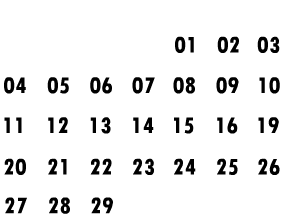
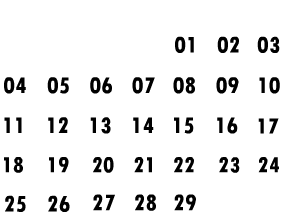
added employee info and fixed calendar

diff --git a/TheOffice/model/Interface/CalendarElement.py b/TheOffice/model/Interface/CalendarElement.py
@@ -1,5 +1,4 @@
 import datetime
-import math
 from os import listdir
 
 import pygame.image
@@ -16,44 +15,98 @@ class CalendarElement(InterfaceElement):
                             for page in listdir("../resources/interface/elements/calendar/pages")]
         self.page_rect = Rect(270, 160, self.page_images[0].get_width(), self.page_images[0].get_height())
         self.current_page = 0
-        self.calendar_matrix = self.init_calendar_matrix(2024)
         self.current_date = datetime.date(2024, 1, 1)
-        offset = datetime.date(2024, self.current_date.month, 1).weekday()
-        self.page_marker_pos = [1, 0]
-        self.page_marker_rect_fixed_pos = (278, 176)
-        self.page_marker_rect = Rect(278 + self.page_marker_pos[0] * 32, 176 + self.page_marker_pos[1] * 35, 34, 36)
-
-    def init_calendar_matrix(self, year):
-        calendar_matrix = [[]]
-        date = datetime.date(year, 1, 1)
-        DAYS_PER_PAGE = 35
-        # first page starts with 31 of december from last year
-        calendar_matrix[0].append(31)
-        # set a matrix where row is month and column is a day of month
-        for days in range(0, 365):
-            day = (date + datetime.timedelta(days)).day
-            page = math.floor(days / DAYS_PER_PAGE)
-            if days % DAYS_PER_PAGE == 0:
-                calendar_matrix.append([])
-            calendar_matrix[page].append(day)
-        return calendar_matrix
+        self.init_texts()
+        self.page_marker_pos = [1, 0, 0]
+        self.page_marker_rect_fixed_pos = (272, 176)
+        self.marker_width = 37
+        self.marker_height = 36
+        self.page_marker_rect = Rect(280 + self.page_marker_pos[0] * 31, 176 + self.page_marker_pos[1] * 35, self.marker_width,
+                                     self.marker_height)
 
     def update(self):
         self.current_date += datetime.timedelta(1)
         # if next month starts
         if self.current_date.day == 1:
-            offset = datetime.date(2024, self.current_date.month, 1).weekday()
-            self.page_marker_pos = [0 + offset, 0]
+            self.page_marker_pos = [self.get_marker_offset(), 0, self.page_marker_pos[2] + 1]
         # if next week starts
-        elif self.page_marker_pos[0] == 7:
-            self.page_marker_pos = [0, self.page_marker_pos[1] + 1]
+        elif self.page_marker_pos[0] == 6:
+            self.page_marker_pos = [0, self.page_marker_pos[1] + 1, self.page_marker_pos[2]]
         else:
             self.page_marker_pos[0] += 1
-        self.page_marker_rect.x = self.page_marker_rect_fixed_pos[0] + self.page_marker_pos[0] * 34
-        self.page_marker_rect.y = self.page_marker_rect_fixed_pos[1] + self.page_marker_pos[1] * 35
+        self.page_marker_rect.x = self.page_marker_rect_fixed_pos[0] + self.page_marker_pos[0] * self.marker_width
+        self.page_marker_rect.y = self.page_marker_rect_fixed_pos[1] + self.page_marker_pos[1] * self.marker_height
 
     def move(self, x, y):
         self.rect = self.rect.move(x, y)
         self.page_rect = self.page_rect.move(x, y)
         self.page_marker_rect = self.page_marker_rect.move(x, y)
         self.page_marker_rect_fixed_pos = (self.page_marker_rect_fixed_pos[0] + x, self.page_marker_rect_fixed_pos[1] + y)
+
+    def get_marker_offset(self):
+        if self.current_page == 0:
+            return 4
+        elif self.current_page == 1:
+            return 5
+        elif self.current_page == 2:
+            return 0
+        elif self.current_page == 3:
+            return 3
+        elif self.current_page == 4:
+            return 6
+        elif self.current_page == 5:
+            return 0
+        elif self.current_page == 6:
+            return 4
+        elif self.current_page == 7:
+            return 0
+        elif self.current_page == 8:
+            return 2
+        elif self.current_page == 9:
+            return 5
+        elif self.current_page == 10:
+            return 0
+        elif self.current_page == 11:
+            return 1
+
+    def init_texts(self):
+        font = pygame.font.SysFont("Calibri", 30, True)
+        self.month_text_rect = pygame.Rect(260, 140, 100, 24)
+        self.text_january = font.render("January", True, 0)
+        self.text_february = font.render("February", True, 0)
+        self.text_march = font.render("March", True, 0)
+        self.text_april = font.render("April", True, 0)
+        self.text_may = font.render("May", True, 0)
+        self.text_june = font.render("June", True, 0)
+        self.text_july = font.render("July", True, 0)
+        self.text_august = font.render("August", True, 0)
+        self.text_september = font.render("September", True, 0)
+        self.text_october = font.render("October", True, 0)
+        self.text_november = font.render("November", True, 0)
+        self.text_december = font.render("December", True, 0 )
+
+    def get_month_text(self):
+        if self.current_page == 0:
+            return self.text_january
+        elif self.current_page == 1:
+            return self.text_february
+        elif self.current_page == 2:
+            return self.text_march
+        elif self.current_page == 3:
+            return self.text_april
+        elif self.current_page == 4:
+            return self.text_may
+        elif self.current_page == 5:
+            return self.text_june
+        elif self.current_page == 6:
+            return self.text_july
+        elif self.current_page == 7:
+            return self.text_august
+        elif self.current_page == 8:
+            return self.text_september
+        elif self.current_page == 9:
+            return self.text_october
+        elif self.current_page == 10:
+            return self.text_november
+        else:
+            return self.text_december

diff --git a/TheOffice/view/Main.py b/TheOffice/view/Main.py
@@ -47,9 +47,6 @@ class Game:
             "Paper sold: " + str(self.company.papers_sold), True,
             (255, 255, 255))
         self.money = self.font.render("Money: " + str(self.company.money), True, (255, 255, 255))
-        self.hunger = self.font.render(
-            "Hunger: " + str(self.employee_controller.employee_service.employee_list[0]._needs.hunger), True,
-            (255, 255, 255))
         self.stress = self.font.render(
             "Stress: " + str(self.employee_controller.employee_service.employee_list[0]._needs.stress), True,
             (255, 255, 255))
@@ -58,6 +55,16 @@ class Game:
             "Motivation: " + str(self.employee_controller.employee_service.employee_list[0]._needs.motivation), True,
             (255, 255, 255))
         self.clock_time = self.font.render("Time: " + self.interface_service.get_clock_progress_str(), True, (255, 255, 255))
+        if self.interface_service.view_type == self.interface_service.HIRE_EMPLOYEE:
+            emp = self.interface_service.hire_element.emp_list[self.interface_service.hire_element.emp_index]
+            abilities = emp.get("abilities")
+            name = emp.get("name")
+            self.emp_name = self.font.render("Name: " + name, True, (255, 255, 255))
+            self.stomach = self.font.render("Hunger: " + str(abilities[0]), True, (255, 255, 255))
+            self.boredom = self.font.render("Boredom: " + str(abilities[1]), True, (255, 255, 255))
+            self.anxiety = self.font.render("Anxiety: " + str(abilities[2]), True, (255, 255, 255))
+            self.salary = self.font.render("Salary: ", True, (255, 255, 255))
+            self.experience = self.font.render("Experience: ", True, (255, 255, 255))  # could be shown by levels: low, medium, high
 
     def draw(self):
         for floor in range(0, len(self.building_controller.get_room_board())):
@@ -82,13 +89,20 @@ class Game:
         # draw different views based on which icon user clicked
         if self.interface_service.view_type == self.interface_service.HIRE_EMPLOYEE:
             self.screen.blit(self.interface_service.hire_element.get_emp_image(), self.interface_service.hire_element.rect)
+            self.screen.blit(self.emp_name, self.interface_service.hire_element.rect.move(70, 0))
+            self.screen.blit(self.stomach, self.interface_service.hire_element.rect.move(70, 30))
+            self.screen.blit(self.anxiety, self.interface_service.hire_element.rect.move(70, 60))
+            self.screen.blit(self.boredom, self.interface_service.hire_element.rect.move(70, 90))
         elif self.interface_service.view_type == self.interface_service.PURCHASE_ROOM:
             self.screen.blit(self.interface_service.building_element.get_room_image(), self.interface_service.building_element.rect)
         elif self.interface_service.view_type == self.interface_service.CALENDAR:
             self.screen.blit(self.interface_service.calendar_element.image, self.interface_service.calendar_element.rect)
             self.screen.blit(self.interface_service.calendar_element.page_images[self.interface_service.calendar_element.current_page],
                              self.interface_service.calendar_element.page_rect)
-            pygame.draw.rect(self.screen, (255, 0, 0), self.interface_service.calendar_element.page_marker_rect, 3)
+            self.screen.blit(self.interface_service.calendar_element.get_month_text(),
+                             self.interface_service.calendar_element.month_text_rect)
+            if self.interface_service.calendar_element.current_page == self.interface_service.calendar_element.page_marker_pos[2]:
+                pygame.draw.rect(self.screen, (255, 0, 0), self.interface_service.calendar_element.page_marker_rect, 3)
 
         pygame.draw.line(self.screen, (0, 0, 0), (397, 55), self.interface_service.clock_element.clk_pointer, 5)
         # self.screen.blit(self.hunger, self.text_rect.move(0, 125))

diff --git a/TheOffice/model/Interface/HireElement.py b/TheOffice/model/Interface/HireElement.py
@@ -7,10 +7,10 @@ class HireElement(InterfaceElement):
     def __init__(self, rect, img):
         super().__init__(rect, img)
         self.emp_list = [
-            {"name": "Bob", "abilities": (6, 4, 5), "images_path": "../resources/employees/male/emp1/"},
-            {"name": "Bob", "abilities": (6, 4, 5), "images_path": "../resources/employees/male/emp2/"},
-            {"name": "Bob", "abilities": (6, 4, 5), "images_path": "../resources/employees/male/emp3/"},
-            {"name": "Bob", "abilities": (6, 4, 5), "images_path": "../resources/employees/female/emp1/"},
+            {"name": "Bob", "abilities": (6, 6, 6), "images_path": "../resources/employees/male/emp1/"},
+            {"name": "Steve", "abilities": (6, 4, 7), "images_path": "../resources/employees/male/emp2/"},
+            {"name": "Joe", "abilities": (4, 6, 8), "images_path": "../resources/employees/male/emp3/"},
+            {"name": "Marle", "abilities": (8, 7, 4), "images_path": "../resources/employees/female/emp1/"},
         ]
         self.emp_index = 0
 

diff --git a/TheOffice/service/Interface/InterfaceService.py b/TheOffice/service/Interface/InterfaceService.py
@@ -12,7 +12,7 @@ from service.RoomType import RoomType
 
 class InterfaceService:
     def __init__(self):
-        self.time_dist = 1800
+        self.time_dist = 1
         self.timestamp = time.get_ticks()
         self.calendar_element = CalendarElement(Rect(260, 170, 283, 192),
                                                 image.load("../resources/interface/elements/calendar/calendar.png"))
